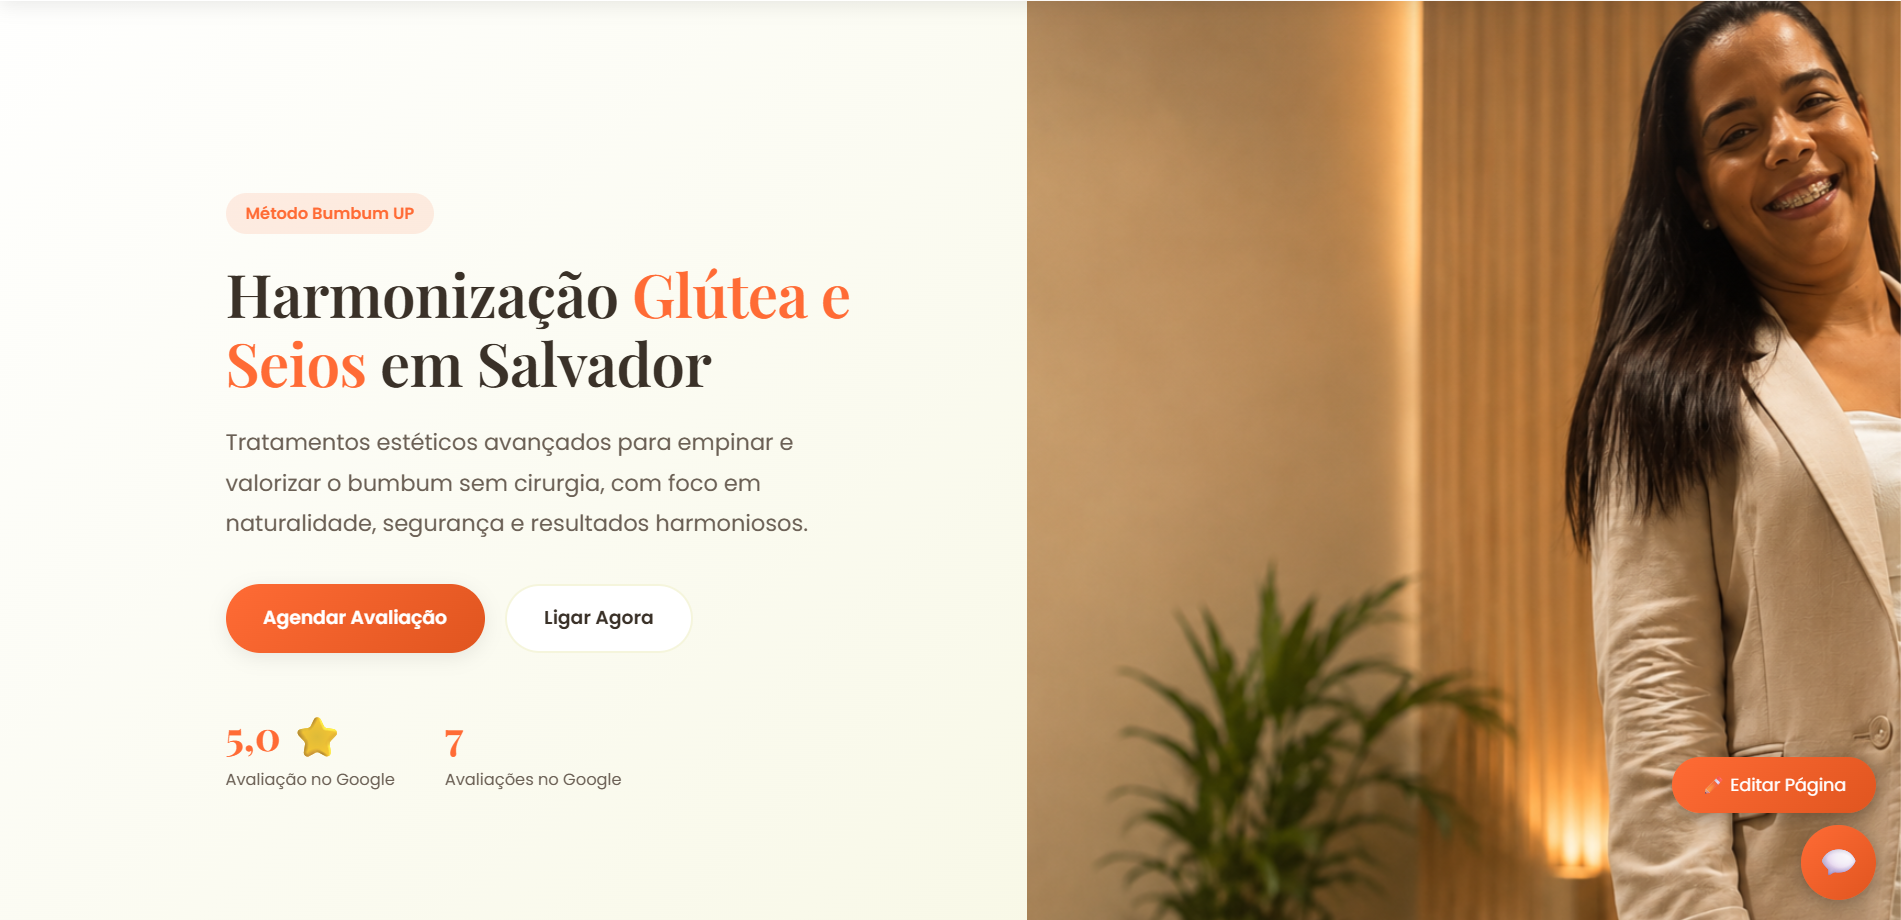
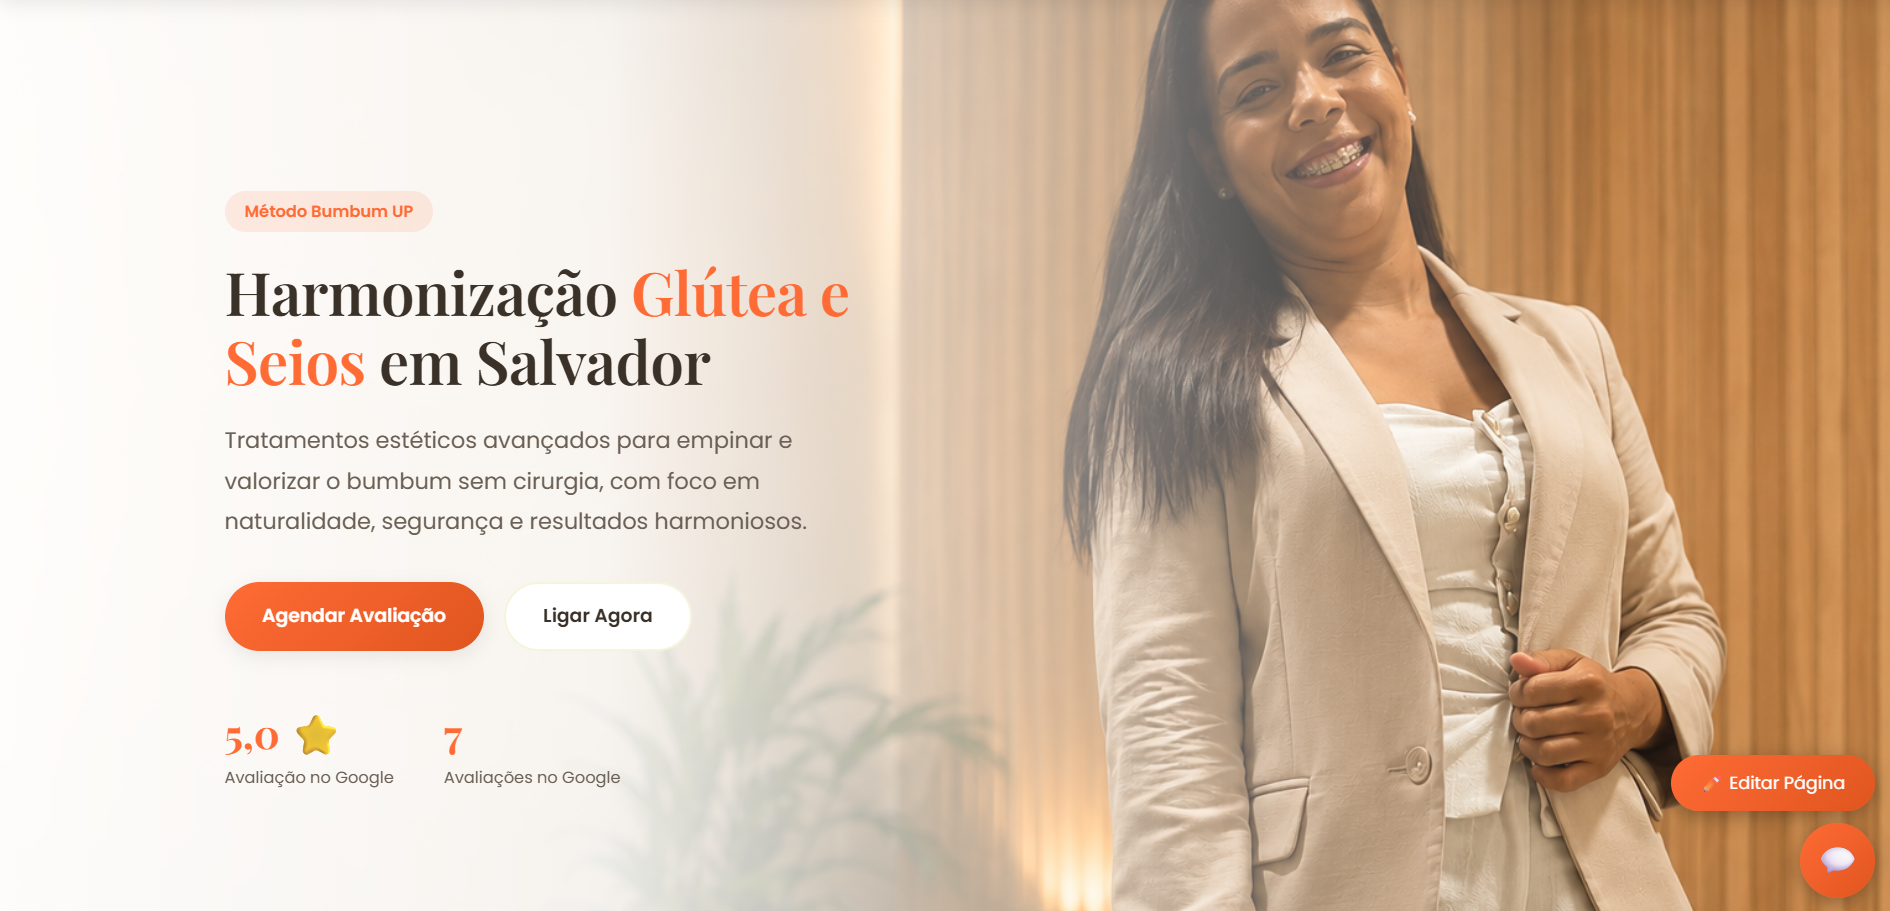
Refinamento via Nevion Hub: Diminua esse efeito branco na imagem de Fundo da seção Hero

diff --git a/assets/css/style.css b/assets/css/style.css
@@ -265,7 +265,7 @@ section { padding: 80px 20px; }
   content: "";
   position: absolute;
   inset: 0;
-  background: linear-gradient(90deg, rgba(255,255,255,0.97) 0%, rgba(255,255,255,0.9) 32%, rgba(255,255,255,0.45) 58%, rgba(255,255,255,0.05) 85%);
+  background: linear-gradient(90deg, rgba(255,255,255,0.95) 0%, rgba(255,255,255,0.75) 22%, rgba(255,255,255,0.25) 42%, rgba(255,255,255,0) 60%);
 }
 .hero-imagem img {
   width: 100%;
